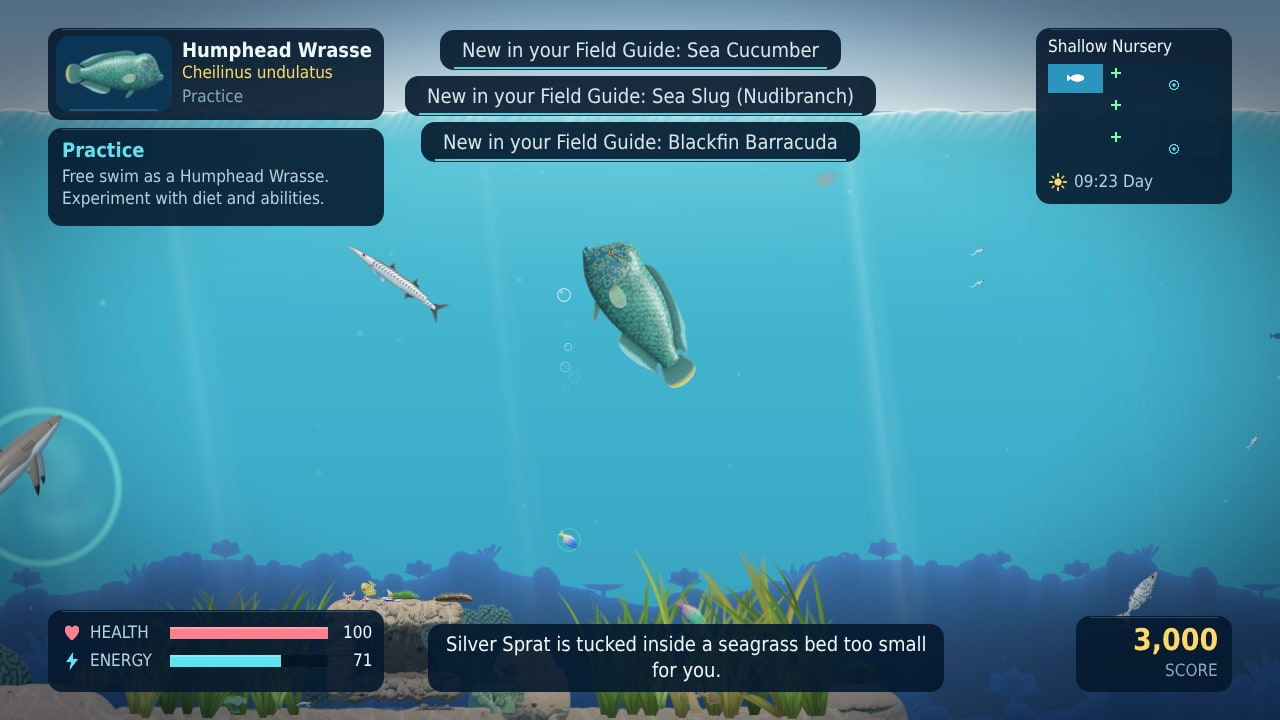
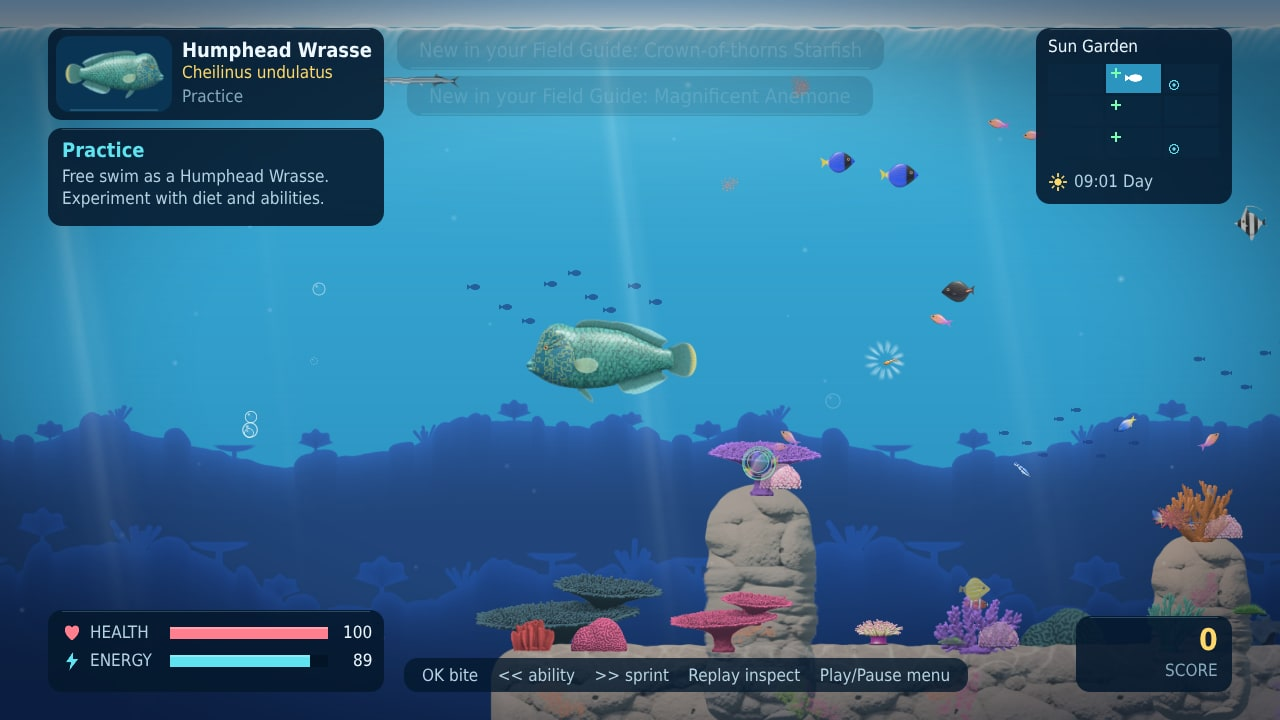
Final predator sprites, reef-pass travel test, screenshots
Claude-Session: https://claude.ai/code/session_01VVY67R5iH75EttQJwB75uM

diff --git a/README.md b/README.md
@@ -13,7 +13,7 @@ platform: the simulation is ported to BrightScript, everything is drawn with the
 | | |
 |---|---|
 | ![Sun Garden](docs/screens/sun-garden.jpg) | ![Cleaning Grotto](docs/screens/cleaning-grotto.jpg) |
-| ![Shallow Nursery](docs/screens/shallows.jpg) | ![Night on the reef](docs/screens/night.jpg) |
+| ![Humphead wrasse over the Sun Garden](docs/screens/shallows.jpg) | ![Night on the reef](docs/screens/night.jpg) |
 | ![Great white sharks at the Blue Edge](docs/screens/great-white.jpg) | ![Bitten by a grouper](docs/screens/attack.jpg) |
 | ![Field Guide](docs/screens/field-guide.jpg) | ![Classic Tournament](docs/screens/tournament.jpg) |
 | ![Practice](docs/screens/practice.jpg) | ![Reef Lab](docs/screens/reef-lab.jpg) |
